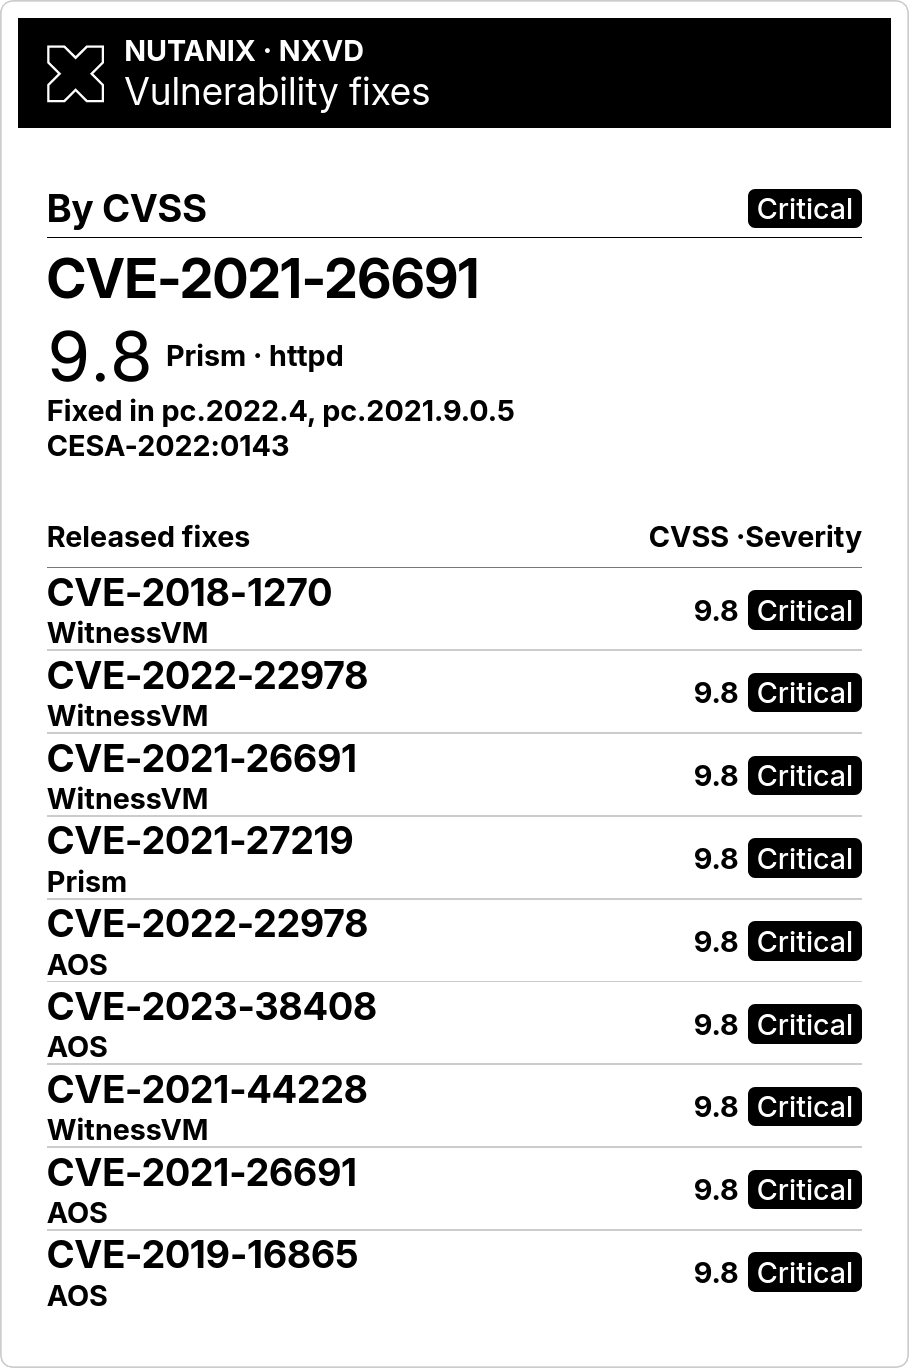
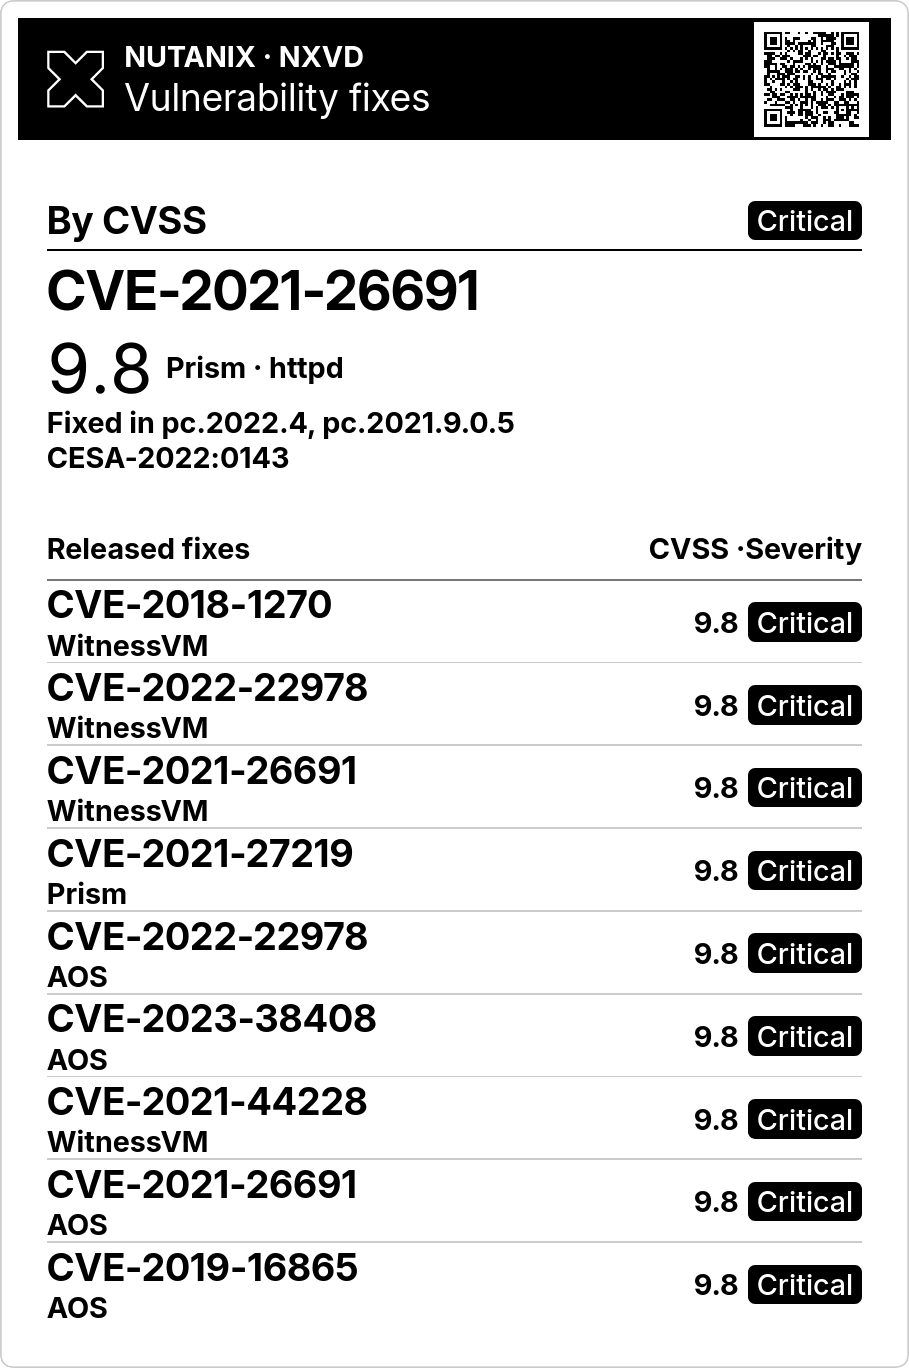
feat: add nutanix portal qr codes

Changed region(s): [[0.0, 0.0, 0.9857, 0.9825], [0.7085, 0.3684, 0.9549, 0.9518]]

diff --git a/TRMNL/src/transform.js b/TRMNL/src/transform.js
@@ -96,10 +96,13 @@ async function run(input) {
   const selection = isNxvd ? `nxvd:${product ?? 'all'}` : `advisories:${criticalityFirst ? 'criticality' : 'latest'}`;
   const saved = input?.trmnl?.state;
   const url = SOURCE + (isNxvd ? '/api/v1/vulnerabilities' : '/api/v1/pages/securityAdvisories');
+  const portal_url = SOURCE + (isNxvd
+    ? '/page/security/security-vulnerabilities/list?softwareType=' + encodeURIComponent(product ?? 'All')
+    : '/page/security/security-advisories/list');
   const startedAt = Date.now();
   const sourceFailure = (reason, message) => {
     console.error(`Nutanix ${mode}: ${reason} after ${Date.now() - startedAt}ms`);
-    const error = { source_error: reason, source_message: message };
+    const error = { source_error: reason, source_message: message, portal_url };
     if (saved?.selection === selection && saved.data?.mode === mode && saved.data.feed_state === 'LIVE' &&
         typeof saved.saved_at === 'string' && Number.isFinite(Date.parse(saved.saved_at))) {
       return { ...saved.data, ...error, feed_state: 'STALE', saved_at: saved.saved_at };
@@ -153,7 +156,7 @@ async function run(input) {
   const result = isNxvd ? vulnerabilityData(entries, product) : advisoryData(entries, criticalityFirst);
   const snapshot = { selection, saved_at: new Date().toISOString(), data: result };
   if (Buffer.byteLength(JSON.stringify(snapshot)) <= SAVED_STATE_BYTES) {
-    return { ...result, trmnl_state: snapshot };
+    return { ...result, portal_url, trmnl_state: snapshot };
   }
-  return result;
+  return { ...result, portal_url };
 }

diff --git a/TRMNL/tests/layout_spec.rb b/TRMNL/tests/layout_spec.rb
@@ -61,6 +61,7 @@ RSpec.describe 'Nutanix Security layouts' do
           expect(screen.all('[data-ns-lead]').size).to eq(count.positive? ? 1 : 0)
           expect(screen).to have_no_css('.title_bar')
           expect(screen).to have_no_css('.layout a')
+          expect(screen).to have_css('[data-ns-mast] svg.qr-code', count: 1)
           expect(screen).to have_no_css('.layout [data-table-limit], .layout [data-clamp]')
           expect(screen.result.requests.size).to eq(1)
           expect(screen).to have_css('[data-ns-lead] [data-ns-subject]', text: label) if count.positive?
@@ -184,6 +185,7 @@ RSpec.describe 'Nutanix Security layouts' do
                             mocks: { mocks.keys.first => failure }, state: live.state)
       expect(screen).to have_no_transform_error
       expect(screen).to have_text('Saved 2026-11-20')
+      expect(screen).to have_css('[data-ns-mast] svg.qr-code', count: 1)
       expect(screen).to have_css('[data-ns-lead] [data-ns-subject]', text: label)
       expect(screen.result.data.fetch('source_error')).to eq(reason)
       expect(screen.result.state).to eq(live.state)

diff --git a/TRMNL/README.md b/TRMNL/README.md
@@ -34,6 +34,8 @@ Recorded on November 21, 2026 using public Nutanix data.
 
 [Shared Liquid](src/shared.liquid) renders both briefs. Advisories leads with the latest publication by default. **Highest criticality first** ranks advisories by severity and shows newer publications first within each severity. NXVD leads with the first released fix on the CVSS-ranked page and shows its product, package and fixed release when available.
 
+Scan the QR code in the header to open the selected table on Nutanix's support portal. NXVD opens with your selected product. The portal uses its own sort order.
+
 The full OG view stacks the lead and table. The full landscape X view uses a separate lead panel beside a wider table with dedicated publication dates or product and fixed-release columns. Portrait views stack the content. The OG quadrant shows one featured item, and the X quadrant also fits a short table. [TRMNL X layout guide](https://trmnl.com/framework/docs/3.4/trmnl_x_guide)
 
 The templates cap the number of rows before rendering. Framework 3.4.6 handles typography, table sizing, and responsive visibility. Text clips in place as the browser lays out the page. The landscape limits below include the featured item.
